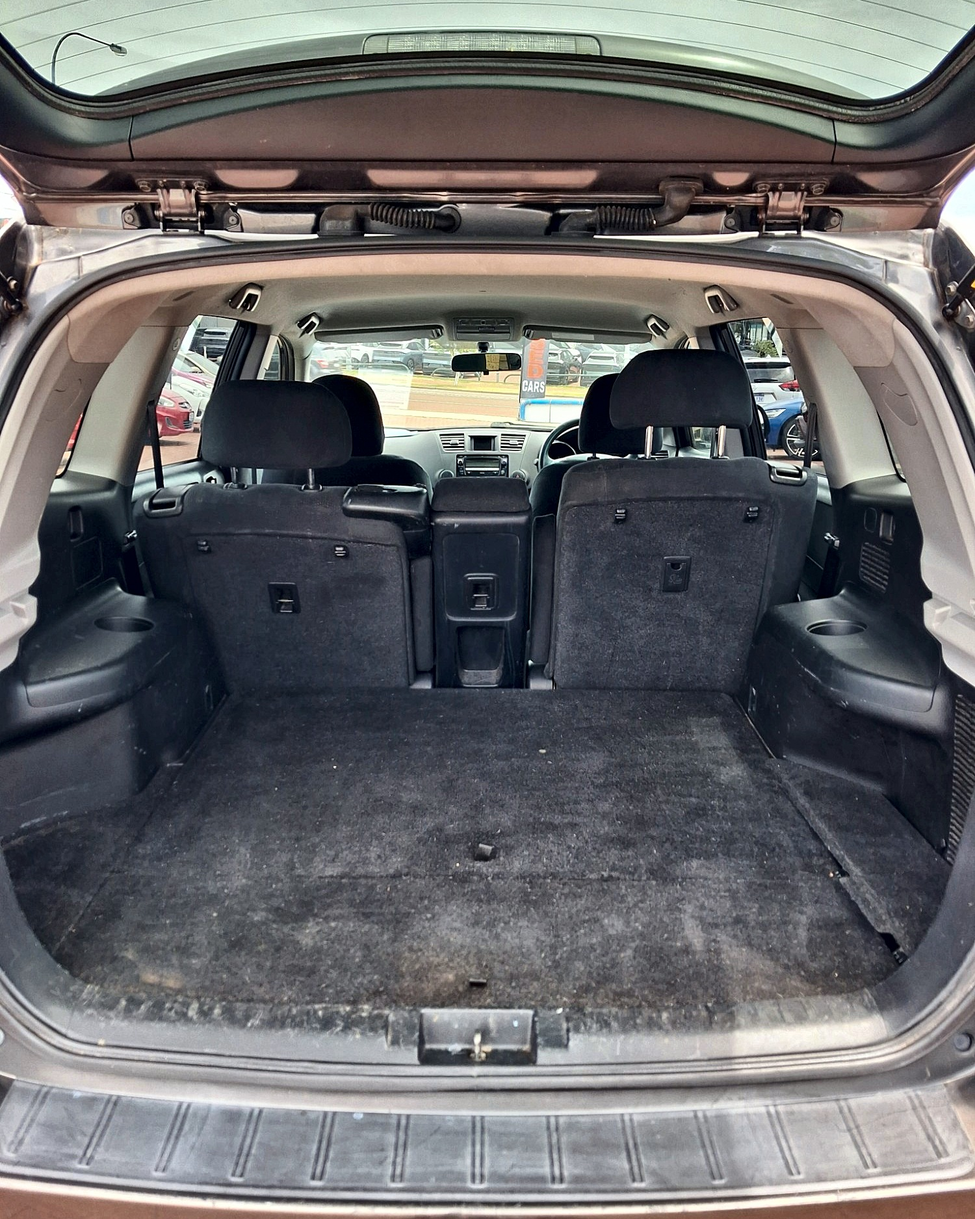
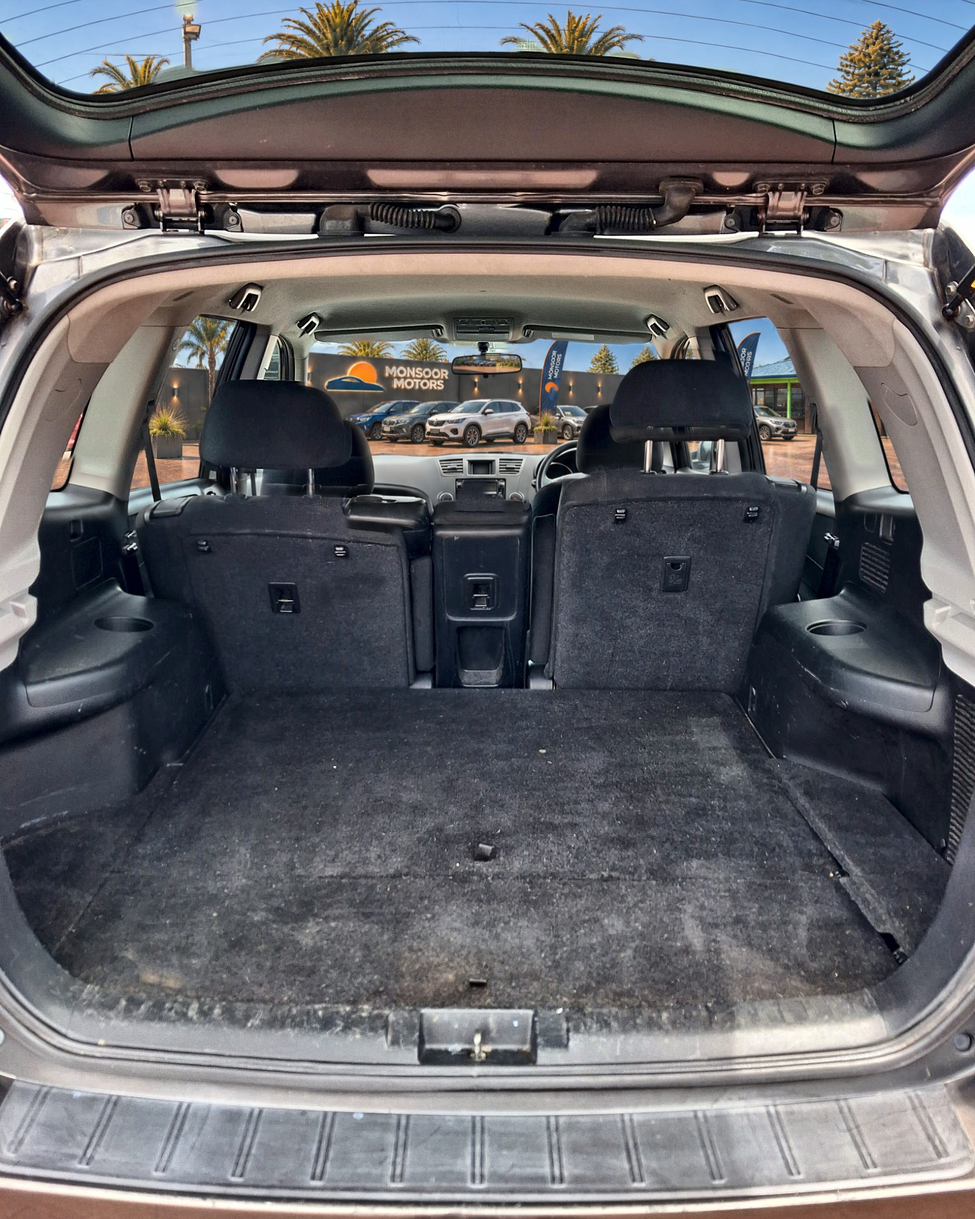
Kluger interiors: Monsoor yard through the windows, real interior kept

Changed region(s): [[0.3067, 0.2475, 0.9507, 0.464], [0.0, 0.0, 1.0, 0.0928], [0.0307, 0.2475, 0.276, 0.464]]

diff --git a/Tools/window_view_blend.py b/Tools/window_view_blend.py
@@ -1,0 +1,54 @@
+"""Keep a real interior photo, take only the window views from an AI edit (free, local).
+
+The AI edit (e.g. gpt_image_2_6 "replace the view through the windows") is aligned to the
+real photo with SIFT, then only the areas that changed a lot (the windows) are blended in.
+Seats, wear and trims stay the real pixels.
+
+Usage:
+  python -I Tools/window_view_blend.py REAL.jpg AI.png OUT.jpg [--thresh 38] [--preview P.jpg]
+"""
+import argparse
+
+import cv2
+import numpy as np
+
+
+def main():
+    ap = argparse.ArgumentParser()
+    ap.add_argument("real"); ap.add_argument("ai"); ap.add_argument("out")
+    ap.add_argument("--thresh", type=float, default=38)
+    ap.add_argument("--preview")
+    a = ap.parse_args()
+    o = cv2.imread(a.real)
+    ai = cv2.resize(cv2.imread(a.ai), (o.shape[1], o.shape[0]), interpolation=cv2.INTER_AREA)
+    sift = cv2.SIFT_create(6000)
+    k1, d1 = sift.detectAndCompute(cv2.cvtColor(ai, cv2.COLOR_BGR2GRAY), None)
+    k2, d2 = sift.detectAndCompute(cv2.cvtColor(o, cv2.COLOR_BGR2GRAY), None)
+    m = [x for x, y in cv2.BFMatcher().knnMatch(d1, d2, k=2) if x.distance < 0.7 * y.distance]
+    H, inl = cv2.findHomography(np.float32([k1[x.queryIdx].pt for x in m]),
+                                np.float32([k2[x.trainIdx].pt for x in m]), cv2.RANSAC, 3.0)
+    ai = cv2.warpPerspective(ai, H, (o.shape[1], o.shape[0]), borderMode=cv2.BORDER_REPLICATE)
+    diff = np.abs(cv2.GaussianBlur(ai, (0, 0), 5).astype(np.float32)
+                  - cv2.GaussianBlur(o, (0, 0), 5).astype(np.float32)).max(axis=2)
+    mk = (diff > a.thresh).astype(np.uint8)
+    mk = cv2.morphologyEx(mk, cv2.MORPH_OPEN, np.ones((9, 9), np.uint8))
+    mk = cv2.morphologyEx(mk, cv2.MORPH_CLOSE, np.ones((31, 31), np.uint8))
+    nl, lab, st, _ = cv2.connectedComponentsWithStats(mk)
+    keep = np.zeros_like(mk)
+    for i in range(1, nl):
+        if st[i, 4] > 0.004 * mk.size:
+            keep[lab == i] = 1
+    keep = cv2.dilate(keep, np.ones((7, 7), np.uint8))
+    w = cv2.GaussianBlur(keep.astype(np.float32), (0, 0), 4)[..., None]
+    out = (ai * w + o * (1 - w)).astype(np.uint8)
+    cv2.imwrite(a.out, out, [cv2.IMWRITE_JPEG_QUALITY, 93])
+    print(a.out, f"inliers {int(inl.sum())}/{len(m)}", f"window share {keep.mean() * 100:.1f}%")
+    if a.preview:
+        h = 420
+        s = lambda x: cv2.resize(x, (int(x.shape[1] * h / x.shape[0]), h))
+        mv = cv2.cvtColor((keep * 255).astype(np.uint8), cv2.COLOR_GRAY2BGR)
+        cv2.imwrite(a.preview, np.hstack([s(o), s(mv), s(out)]))
+
+
+if __name__ == "__main__":
+    main()

diff --git a/.claude/skills/aureus-video-studio/assets/GENERATION-LOG.md b/.claude/skills/aureus-video-studio/assets/GENERATION-LOG.md
@@ -92,3 +92,5 @@ One line per Higgsfield generation. Reuse the prompt, seed and references of kee
 | 2026-11-23 | Empty yard plate: GTA final yard, C-HR removed | gpt_image_2_6 2k high 16:9 | (prompt in job) | - | GTA-Yard-Premium-Final upload `94a8fb8a` | about 3 | hf_20261123_093300_f95eaa2c | Keep: empty front bay for stock-car sale photos. Saved `Cars/Toyota Kluger KX-R V6 AWD (grey)/Yard/Monsoor-Yard-GTA-Final-Empty-Plate.png` |
 | 2026-11-23 | Kluger cutouts x8 | image_background_remover | - | - | 8 graded stock photos | 8 (1 each) | hf_20261123_0933xx (8 jobs) | Keep: clean cutouts |
 | 2026-11-23 | Kluger relit into yard x8 | gpt_image_2_6 2k high 4:3/4:5 | assets/prompts/car-yard-relight.md | - | composite + real photo per shot | about 22 | hf_20261123_0936xx (8 jobs) | Keep: dent, roof peel and badges kept (roof peel slightly heavier than real). Plate blurred. Label the background as edited in the post |
+| 2026-11-23 | Kluger interiors: window views to Monsoor yard, try 1 | gpt_image_2_6 2k high | (prompt in job) | - | interior photo + yard upload `94a8fb8a` | about 14 | hf_20261123_0954xx (5 jobs) | Reject: I passed the yard WITH the C-HR, which showed through the windscreen. Lesson: always pass the empty plate `9e27b364` |
+| 2026-11-23 | Kluger interiors: window views, try 2 | gpt_image_2_6 2k high | (prompt in job, "no C-HR, no SOLD signs") | - | interior photo + empty yard plate `9e27b364` | about 11 | hf_20261123_0956xx (4 jobs) | Keep, blended with Tools/window_view_blend.py so only the window areas are AI; the interior stays real. Rear-seats photo left as is |

diff --git a/Monsoor Motors - Playbook & Daily Log.md b/Monsoor Motors - Playbook & Daily Log.md
@@ -102,6 +102,7 @@ Cutting a car out of its background: macOS built-in subject detection (Vision) v
 - `Tools/publish_aureus_public.sh`: publishes a clean public copy of the Aureus Detailing folder to github.com/Arfan-Zaman/Aureus-Detailing (fresh single commit, private items left out).
 - `car_photo_enhance.py`: honest grade + Facebook crop for stock-car photos (light, colour, sharpen; optional background blur boxes).
 - `gta_price_promo.py`: GTA-style price post for a stock car (Pricedown, green price, odometer HUD, logo top-left) from a JSON config; `--no-reel` for photos only.
+- `window_view_blend.py`: keeps a real interior photo and takes only the window views from an AI edit (SIFT align + change mask). Pass the EMPTY yard plate as the reference.
 - `restore_plate.py`: puts the real number plate from the original photo back into an AI-relit photo (SIFT match, warp, light match; free).
 - `car_yard_composite.py`: puts a Higgsfield background-remover cutout onto the empty Monsoor yard plate (shadow, warmth, plate blur); then relight with prompt `aureus-video-studio/assets/prompts/car-yard-relight.md`.
 

diff --git a/.claude/STATUS.md b/.claude/STATUS.md
@@ -4,6 +4,14 @@ Claude updates this file after every step and pushes it to GitHub. Newest entry 
 
 ---
 
+## 23 Nov 2026: Kluger interior photos show the Monsoor yard through the windows
+
+- **What I did:** replaced the view through the windows in the boot, both dashboard and driver-seat photos with the empty GTA yard (Higgsfield, then blended so only the glass areas change; the interior stays real). First try had the C-HR in view (my error, rejected). About 25 credits in total.
+- **Files:** `Cars/Toyota Kluger KX-R V6 AWD (grey)/Post Ready/09, 10, 11, 13`, new `Tools/window_view_blend.py`. Also copied to the main `Cars/` folder.
+- **Next:** owner posts.
+
+---
+
 ## 23 Nov 2026: GTA price photos for the Kluger
 
 - **What I did:** made 4 GTA-style price posts (1080x1350) from the yard photos: Pricedown font, price $5,459 in GTA green on a black band, odometer 328,243 km HUD top-right, Monsoor logo top-left, phone and web. No reel (owner wants photos only). 0 credits.
